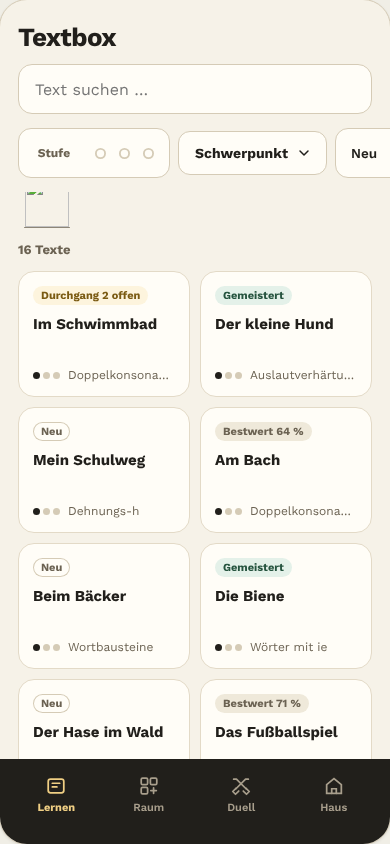
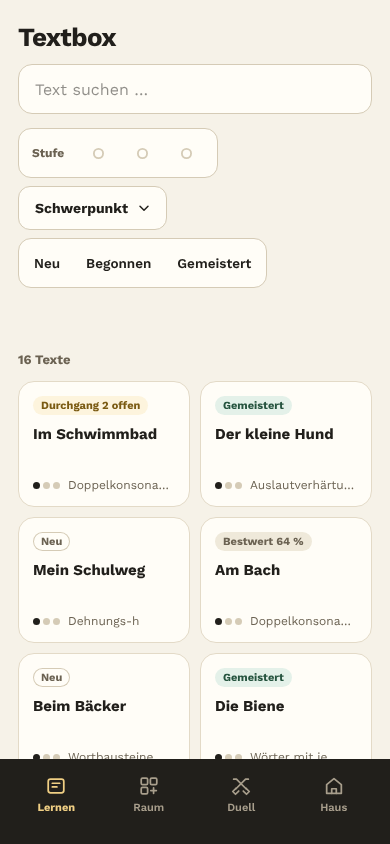
Textbox-Auswahl mobil: Filter und Chips brechen um statt aus dem Bildschirm zu laufen
Claude-Session: https://claude.ai/code/session_01RkF1XjQrde2QZG45aGRZLW

diff --git a/app/views/textbox/library-screen.module.css b/app/views/textbox/library-screen.module.css
@@ -212,24 +212,16 @@
 .filterBar {
   display: flex;
   flex: none;
+  flex-wrap: wrap;
   align-items: center;
   gap: 8px;
   padding: 0 18px;
-  overflow-x: auto;
-  scroll-snap-type: x proximity;
-  /* Das Einrasten respektiert den Innenabstand links und rechts. */
-  scroll-padding-inline: 18px;
-  scrollbar-width: none;
-}
-.filterBar::-webkit-scrollbar {
-  display: none;
 }
 .filterGroup {
   display: flex;
   flex: none;
   align-items: center;
   gap: 8px;
-  scroll-snap-align: start;
 }
 /* Mobil: Stufe, Schwerpunkt, Stand. */
 .levelGroup {
@@ -480,16 +472,12 @@
 .strip {
   display: flex;
   flex: none;
+  flex-wrap: wrap;
   align-items: center;
-  gap: 6px;
-  height: 44px;
+  gap: 0 6px;
+  min-height: 44px;
   margin: -4px 0;
   padding: 0 18px;
-  overflow-x: auto;
-  scrollbar-width: none;
-}
-.strip::-webkit-scrollbar {
-  display: none;
 }
 .peek {
   position: relative;
@@ -892,7 +880,11 @@
   }
   .strip {
     grid-area: strip;
+    flex-wrap: nowrap;
+    height: 44px;
     padding: 0;
+    overflow-x: auto;
+    scrollbar-width: none;
   }
   .clearAll {
     display: inline-flex;

diff --git a/docs/umsetzungsplan-lernraum-ui-v2.md b/docs/umsetzungsplan-lernraum-ui-v2.md
@@ -62,6 +62,7 @@ Beim Nachmessen der Vorlage fielen drei Browser-Standards auf, die das Aussehen 
   - „Weitermachen“ gibt es nur am Desktop (9b). Mobil zeigt die Karte „Durchgang _n_ offen“; ein Tipp öffnet die Frage „Fortsetzen / Neu beginnen“.
   - Erhalten bleiben, obwohl die Vorlage sie nicht zeigt: Speicherhinweis, Fortsetzen-Frage, „Passende Texte zu deinen Wörtern“, „Verlauf“ je geübtem Text (kleiner Textknopf in der Karte, Anzahl der Übungen nur für Screenreader neben dem Bestwert), Link „Laufzettel ansehen und drucken“, Abschluss- und Verlaufsansicht.
   - Die Kontrolle zeigt keine Symbole und keine Legende; die Art steht in Durchstreichung, Umrandung und Kästchen, dazu unsichtbare Präfixe für Screenreader. Durchgang 4 erscheint als Fließtext.
+  - **9c Filterzeile:** Stufe, Schwerpunkt und Stand brechen mobil in mehrere Zeilen um, ebenso die Chips der aktiven Filter. Die Vorlage lässt sie seitlich wischen; auf dem Handy blieben dabei „Stand“ und lange Chips außerhalb des Bildschirms (Rückmeldung der Projektverantwortlichen). Das Referenzbild `9c` stammt deshalb aus dem Rendering dieser Ansicht.
   - Das Tier im Filterstreifen und der Knopf „Verlauf“ werden im Designvergleich über `hide` ausgeblendet (Zufall bzw. Zusatzfunktion); das Layout bleibt dabei wie in der Vorlage.
   - Tippflächen mindestens 44 × 44 px: Stufenpunkte (Vorlage 24 × 22 px), Chips mit ×, Segmente und Zurück-Knopf sind größer als in der Vorlage; negative Außenabstände halten das Layout gleich. Der Zurück-Knopf misst wie in der Vorlage 44/48 px Inhalt plus Rand.
   - „Vollbild“ (9e) ist per Knopf wählbar und wird pro Gerät gemerkt; der Knopf wechselt seine Beschriftung („Vollbild“/„Vollbild beenden“) und hat kein `aria-pressed`.
